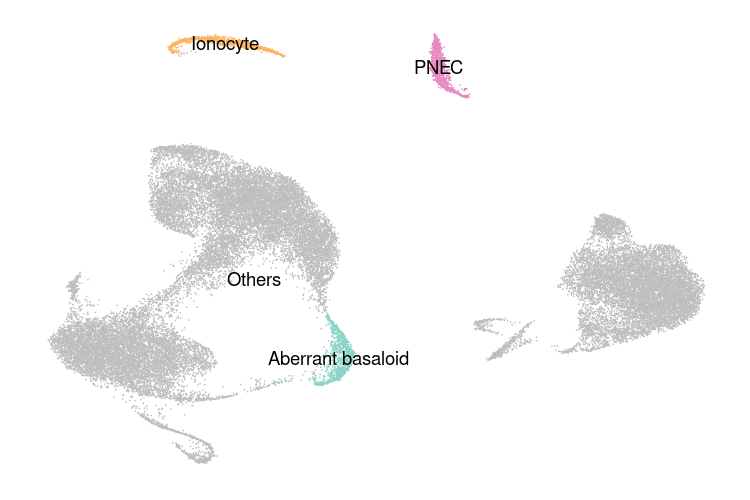
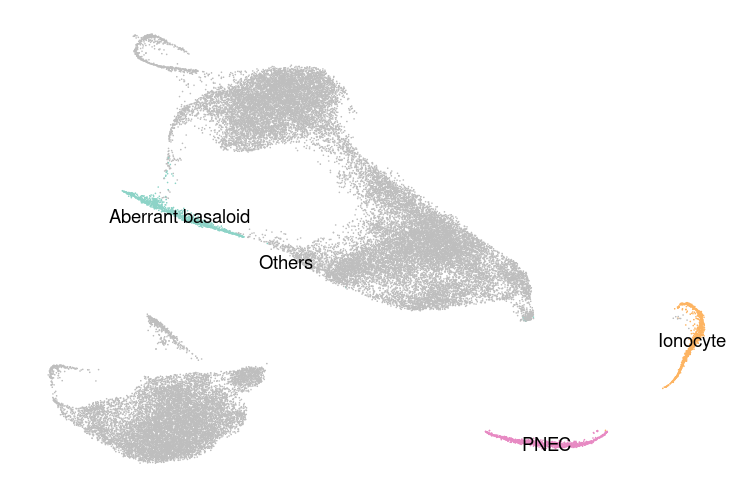
readme

diff --git a/README.md b/README.md
@@ -173,9 +173,10 @@ synthesizing 34,200 cells...
 34,057 cells synthesized...
 34,150 cells synthesized...
 34,200 cells synthesized...
-Synthesis completed in: 2.04 min
+Deviation from originals (%): 6.13 +/- 1.22
+Synthesis completed in: 1.91 min
 Integrating data (1/2)
-  [==================================================] 100% in 37s
+  [==================================================] 100% in 36s
 Integrating data (2/2)
   [==================================================] 100% in  2m
 A Seurat object with 68,400 cells, including 34,200 synthesized.
@@ -193,10 +194,7 @@ statsScGFT(object=sobj_synt, groups="seurat_clusters")
 ```{r}
 Synthesized cells: 34,200
 Matching groups: 32,157
-Accuracy (%): 94.1
-Calculating deviation from originals...
-  [==================================================] 100% in  1m
-Deviation (%): 1.55 +/- 0.38
+Accuracy (%): 94.03
 ```
 
 Utilizing UMAP for a qualitative evaluation, we project synthesized and
@@ -232,10 +230,11 @@ sobj_exp <- CreateSeuratObject(counts=cnts,
   RunHarmony(., group.by.vars="sample") %>% # sample-specific batch correction
   FindNeighbors(., reduction="harmony", dims=1:30) %>%
   # ================================
-  # synthesis 1,000 cells, through modification of 10 complex components, for each of given annotated rare epithelial subtypes
-  RunScGFT(., nsynth=1000, ncpmnts=10, cells = "S2_ACGGAGAGTTCCCGAG-1") %>% # a pre-annotated "Ionocyte" cell
-  RunScGFT(., nsynth=1000, ncpmnts=10, cells = "S1_ATTACTCTCGTTGCCT-1") %>% # a pre-annotated "PNEC" cell
-  RunScGFT(., nsynth=1000, ncpmnts=10, cells = "S1_AAGCCGCGTGCCTGCA-1") %>% # a pre-annotated "Aberrant basaloid" cell
+  # synthesis 1,000, through modification of 10 complex components, for each of given annotated rare epithelial subtypes
+  RunScGFT(., nsynth=1000, ncpmnts=10, cells = list("S2_ACGGAGAGTTCCCGAG-1", # a pre-annotated "Ionocyte" cell
+                                                    "S1_ATTACTCTCGTTGCCT-1", # a pre-annotated "Ionocyte" cell
+                                                    "S1_AAGCCGCGTGCCTGCA-1") # a pre-annotated "Aberrant_basaloid" cell
+                                                    ) %>% 
   # ================================
   FindVariableFeatures(., nfeatures=2000) %>%
   ScaleData(.) %>%
@@ -265,11 +264,8 @@ statsScGFT(object=sobj_synt, groups="sargent_celltype")
 
 ```{r}
 Synthesized cells: 3,000
-Matching groups: 3,000
-Accuracy (%): 100
-Calculating deviation from originals...
-  [==================================================] 100% in  2s
-Deviation (%): 0.31 +/- 0.01
+Matching groups: 2,998
+Accuracy (%): 99.93
 ```
 
 Utilizing UMAP for a qualitative evaluation, we project synthesized and
